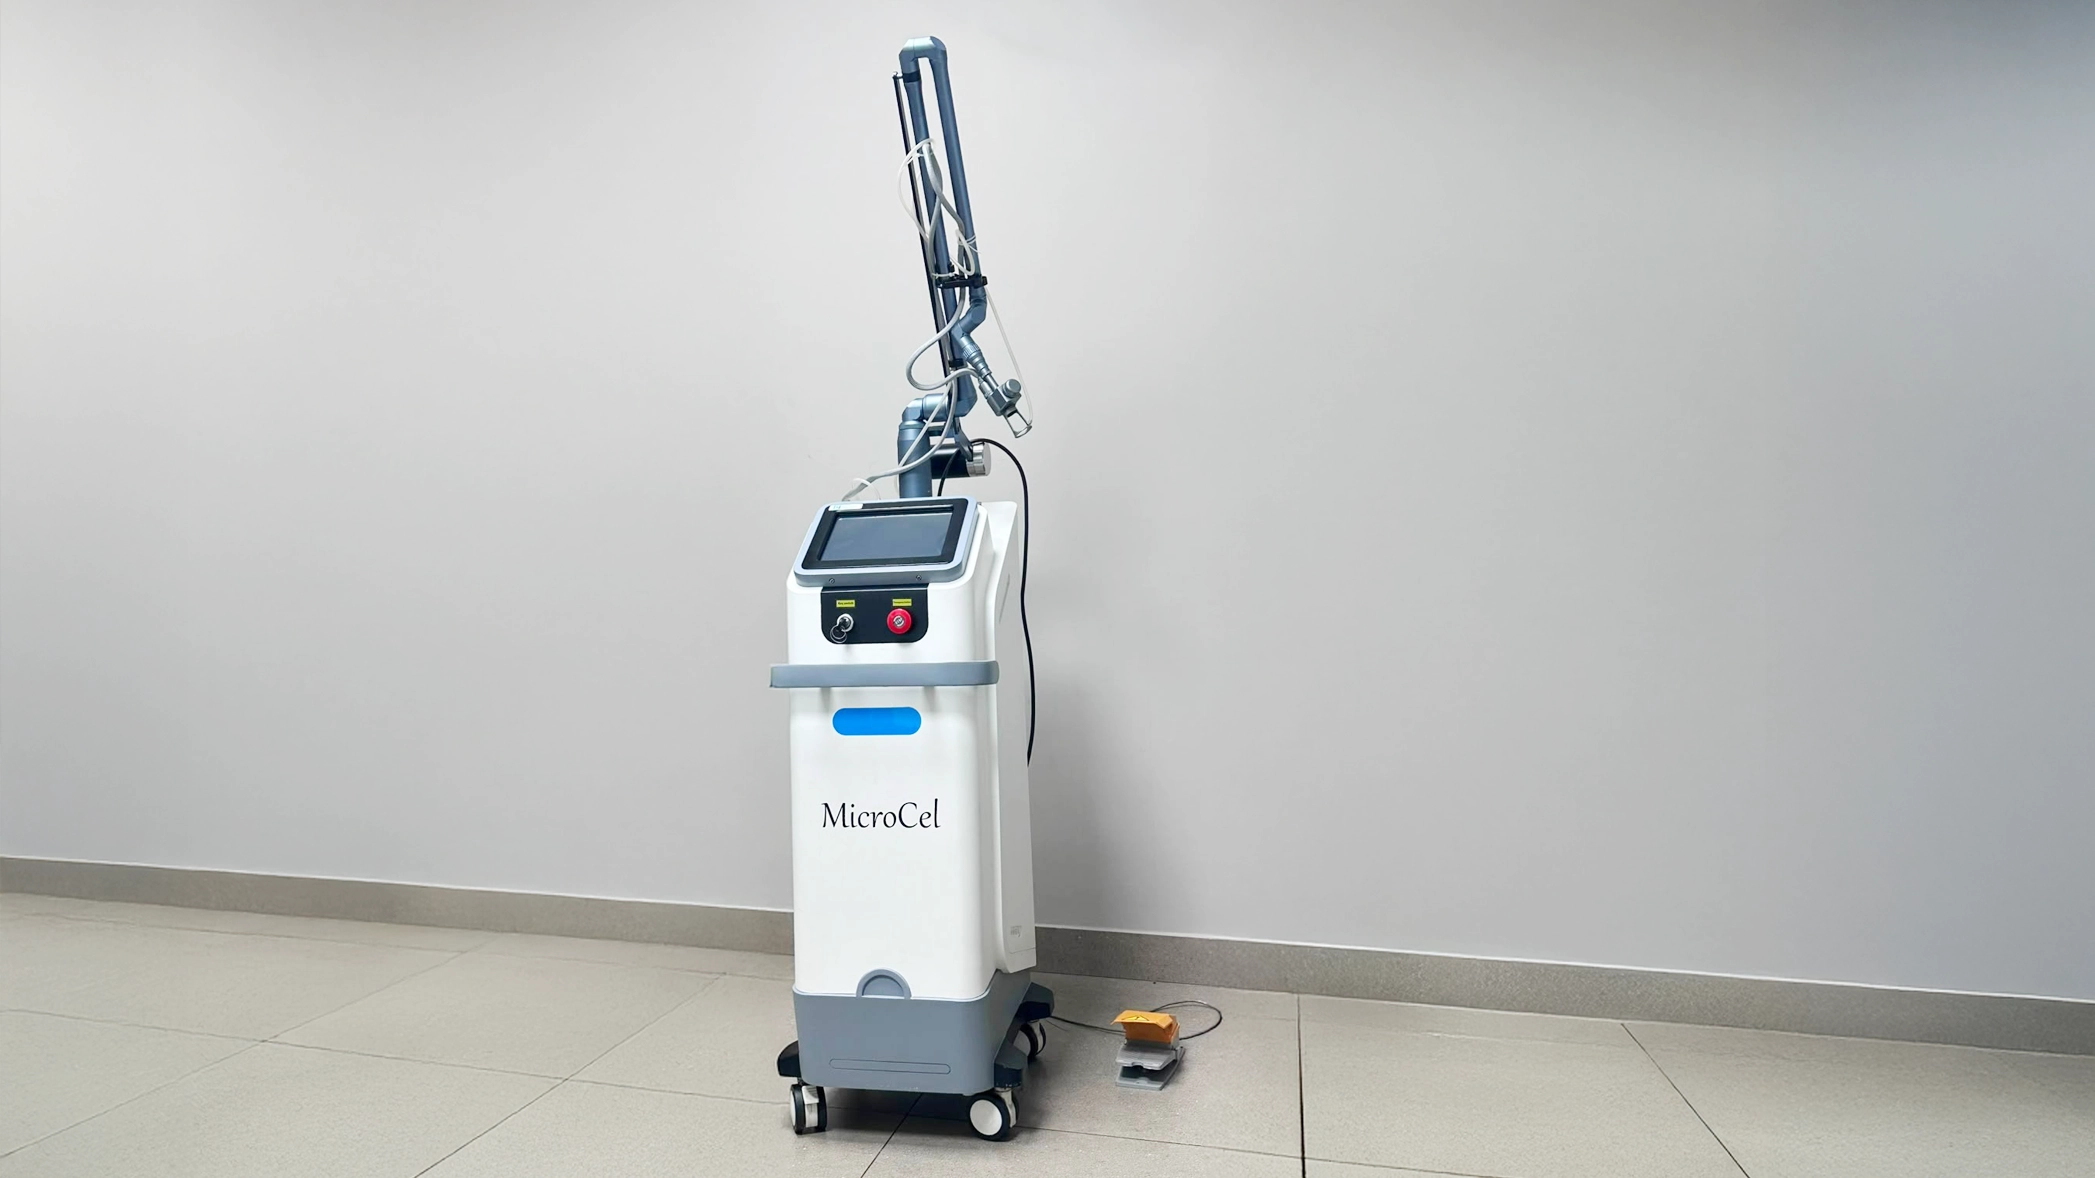
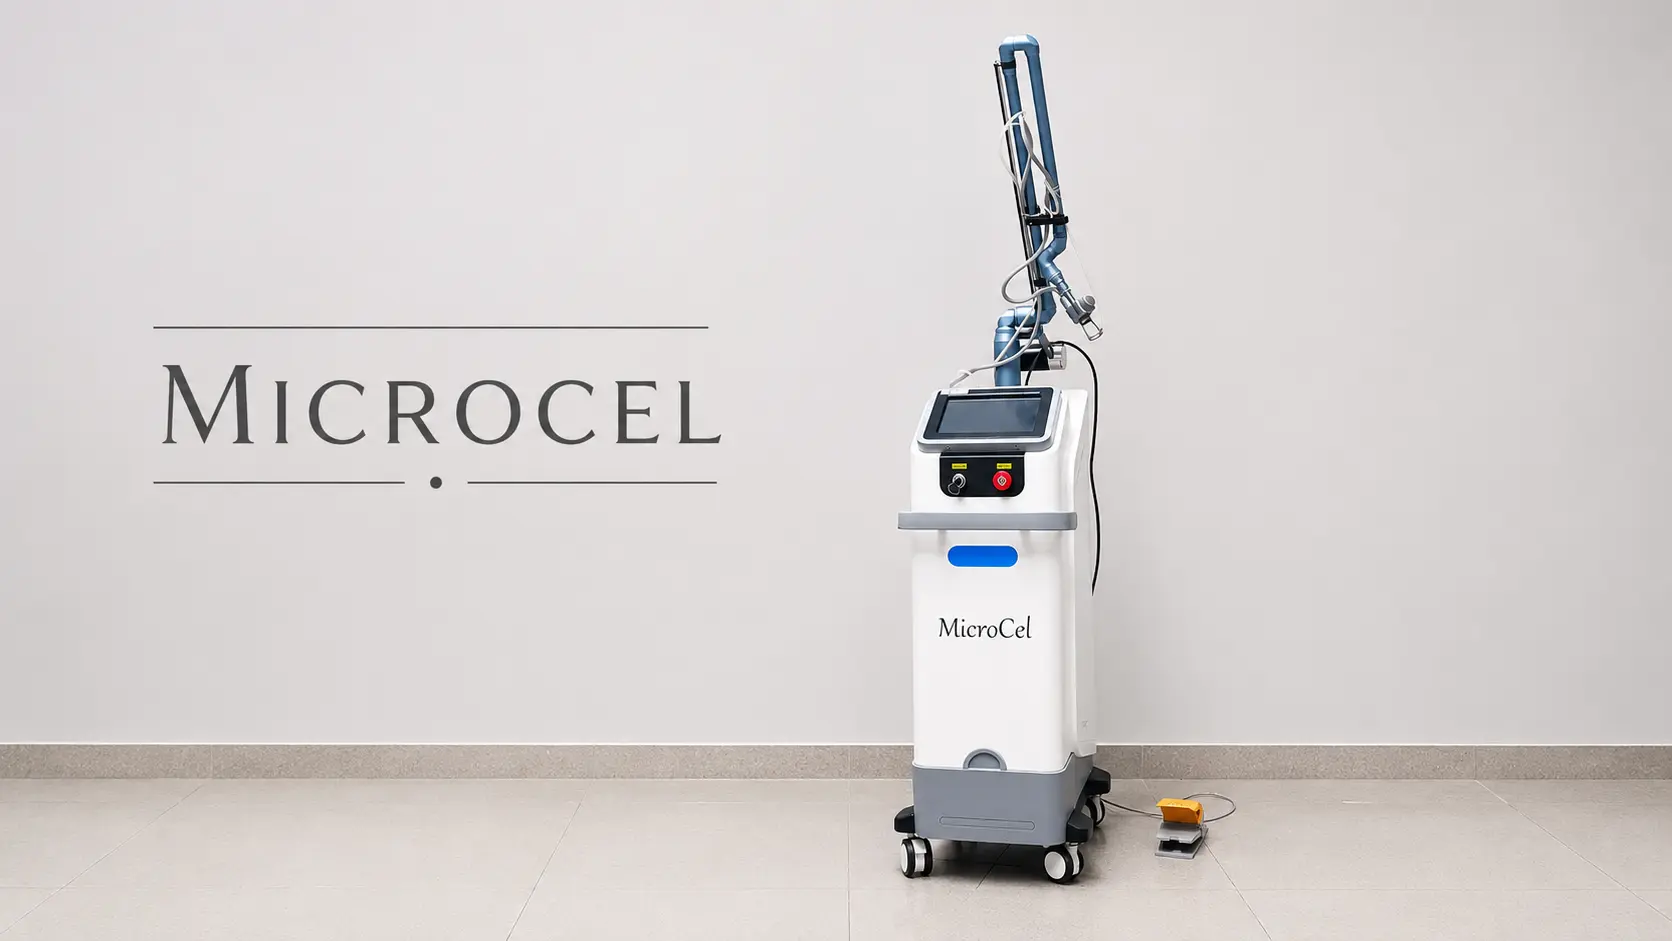
feat: define ServiceData interface and implement foundational service data structure with image assets

diff --git a/src/lib/servicesData.ts b/src/lib/servicesData.ts
@@ -2205,7 +2205,7 @@ export const SERVICES_DATA: Record<string, ServiceData> = {
     deviceSub: "FDA-APPROVED • PRECISION SCANNER • DEEP REMODELING",
     deviceDesc: "We use advanced fractional CO2 laser technology with a precision scanner, delivering micro-beams to target tissue layers safely.",
     deviceFeatures: ["FDA-Approved", "Precision Scanner", "Adjustable Pulse", "Comfort Cooling"],
-    deviceImage: "/services/CO2 Laser/microcel.webp",
+    deviceImage: "/services/products-tech-images/micro-cell.webp",
     comparisonTitle: "COSMO HOME vs Standard Laser",
     comparisonRows: [
       { label: "Fractional", ours: "Micro-beams preserve tissue bridges (fast healing)", standard: "Ablative beams damage entire surface (slow healing)" },
@@ -2795,7 +2795,7 @@ export const SERVICES_DATA: Record<string, ServiceData> = {
     experienceNo: "Signature Injectable Experience",
     description: "A pure, organic cellular restoration. Our signature autologous PRP experience isolates the platelet-rich growth factors from your own blood, delivering them directly into your skin to trigger deep rejuvenation and cellular repair naturally.",
     heroRating: "4.9 · Rated by 280+ patients",
-    heroImage: "/services/exosomes-prp-gfc/1.webp",
+    heroImage: "/services/prp-injectable/1.webp",
     performedByLabel: "👩⚕ Performed by",
     performedByName: "Doctor Supervised",
     performedBySub: "Safe • Personalised • Professional",
@@ -2818,14 +2818,14 @@ export const SERVICES_DATA: Record<string, ServiceData> = {
     clinicalNote: "Blood is processed using a medical centrifuge to obtain a highly concentrated layer of growth factors and platelets.",
     technologyTag: "🧬 Regenerative Science",
     ourDeviceLabel: "✅ Autologous Method",
-    sideImage: "/services/exosomes-prp-gfc/2.webp",
+    sideImage: "/services/prp-injectable/2.webp",
     machineTitle: "Centrifuged platelet",
     machineEmphasized: "isolation system.",
     deviceName: "Medical Centrifuge System",
     deviceSub: "Centrifugation · Sterile Preparation · Platelet Concentration",
     deviceDesc: "Blood is processed using a medical-grade centrifuge to isolate the highest concentration of active platelets while removing red and white blood cells that cause inflammation.",
     deviceFeatures: ["Medical-grade centrifuge", "High-concentration PRP", "Precision injection protocol", "Sterile preparation system"],
-    deviceImage: "/services/exosomes-prp-gfc/3.webp",
+    deviceImage: "/services/prp-injectable/3.webp",
     comparisonTitle: "COSMO HOME vs Standard Clinic",
     comparisonRows: [
       { label: "Active Agent", ours: "Concentrated growth factor isolated platelets", standard: "Basic PRP containing red/white blood cells" },
@@ -2871,8 +2871,8 @@ export const SERVICES_DATA: Record<string, ServiceData> = {
     ],
     ctaImage: "https://images.unsplash.com/photo-1544005313-94ddf0286df2?w=1600&h=900&fit=crop&auto=format",
     beforeAfter: {
-      beforeImage: "/services/before&after/injections/before.webp",
-      afterImage: "/services/before&after/injections/after.webp",
+      beforeImage: "/services/prp-injectable/before.webp",
+      afterImage: "/services/prp-injectable/after.webp",
       treatmentName: "Dermal PRP Therapy",
       testimonialText: "My skin texture has improved dramatically. The fine lines around my eyes are softer, and my skin looks and feels much thicker and healthier.",
       patientName: "Sandra R., 34",
@@ -3627,7 +3627,7 @@ export const SERVICES_DATA: Record<string, ServiceData> = {
     deviceSub: "10600nm CO2 • PRECISION FRACTIONAL SCANNER • TEXTURE RESET",
     deviceDesc: "Our advanced CO2 laser delivers fractional micro-beams to vaporize scar tissues and contract skin collagen matrix.",
     deviceFeatures: ["10600nm Carbon Dioxide Laser", "Adjustable Fractional Scan Patterns", "Deep Penetration Scanner", "Laser Specialist Calibrated"],
-    deviceImage: "/services/CO2 Laser/microcel.webp",
+    deviceImage: "/services/products-tech-images/micro-cell.webp",
     comparisonTitle: "COSMO HOME vs Standard Lasers",
     comparisonRows: [
       { label: "Energy Delivery", ours: "Precision micro-beams reduce burn risk", standard: "Broad continuous beams damage healthy skin" },
